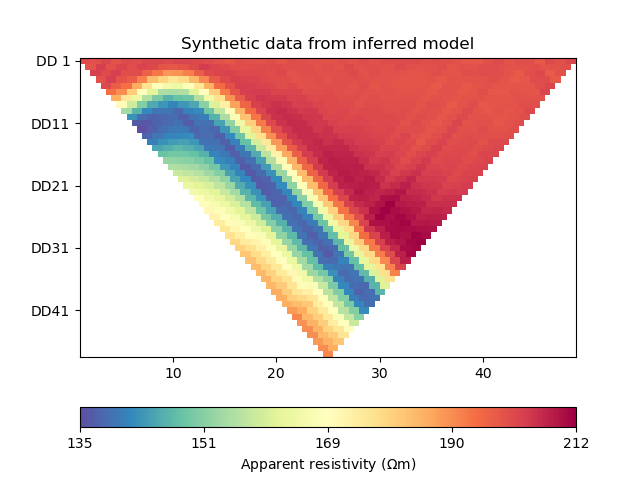
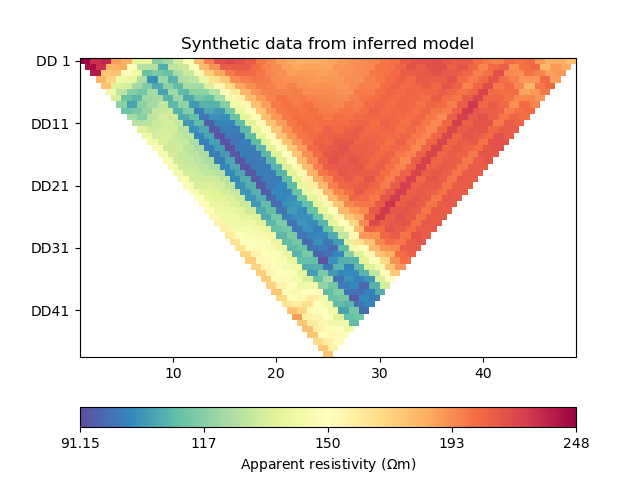
feat: update model log; add data covariance matrix for misfit

diff --git a/notebooks/pygimli_ert/pygimli_ert_gauss_newton_armijo_linesearch.py b/notebooks/pygimli_ert/pygimli_ert_gauss_newton_armijo_linesearch.py
@@ -36,7 +36,7 @@ ax[0].set_title("True model")
 ax[0].figure.savefig("figs/gauss_newton_armijo_linesearch_model_true")
 
 # generate data
-data, log_data = ert_simulate(mesh, scheme, rhomap)
+data, log_data, data_cov_inv = ert_simulate(mesh, scheme, rhomap)
 ax = ert.show(data)
 ax[0].set_title("Provided data")
 ax[0].figure.savefig("figs/gauss_newton_armijo_linesearch_data")
@@ -60,7 +60,7 @@ Wm = reg_matrix(forward_oprt)
 start_model = starting_model(ert_manager)
 ax = pygimli.show(ert_manager.paraDomain, data=start_model, label="$\Omega m$", showMesh=True)
 ax[0].set_title("Starting model")
-ax[0].figure.savefig("figs/gauss_newton_model_start")
+ax[0].figure.savefig("figs/gauss_newton_armijo_linesarch_model_start")
 
 
 ############# Inverted by our Gauss-Newton algorithm ##################################
@@ -98,7 +98,6 @@ class GaussNewtonArmjioLineaSearch(BaseSolver):
             term2 = - self._gradient(current_model)
             model_update_log = np.linalg.solve(term1, term2) #* self._step
         
-            # current_msft=self._misfit(current_model)
             current_obj = self._obj(current_model)
             print("line search")
 
@@ -106,7 +105,7 @@ class GaussNewtonArmjioLineaSearch(BaseSolver):
 
             while (tau > 1.0e-5):
                 trial_model_log = np.array(current_model_log) + np.array(model_update_log)*tau
-                trial_model=np.exp(trial_model_log)
+                trial_model = np.exp(trial_model_log)
 
                 if (np.min(trial_model)>1.0):
                     break
@@ -115,10 +114,10 @@ class GaussNewtonArmjioLineaSearch(BaseSolver):
             # Armjio Line search
             while (tau > 1.0e-5):          
                 trial_model_log = np.array(current_model_log) + np.array(model_update_log)*tau
-                trial_model=np.exp(trial_model_log)
-                trial_msft = self._obj(trial_model)
-                print("tau {} cmsft {} tmsft {} |dm| {}".format(tau,current_obj,trial_msft,np.linalg.norm(np.exp(model_update_log),2)))
-                if trial_msft<current_obj:
+                trial_model = np.exp(trial_model_log)
+                trial_obj = self._obj(trial_model)
+                print(f"tau {tau} current_obj {current_obj} trial_obj {trial_obj} |dm| {np.linalg.norm(np.exp(model_update_log*tau),2)}")
+                if trial_obj<current_obj:
                     current_model = trial_model
                     break
                 tau=tau*0.5
@@ -141,10 +140,10 @@ ert_problem.name = "Electrical Resistivity Tomography defined through PyGIMLi"
 ert_problem.set_forward(get_response, args=[forward_oprt])
 ert_problem.set_jacobian(get_jacobian, args=[forward_oprt])
 ert_problem.set_residual(get_residual, args=[log_data, forward_oprt])
-ert_problem.set_data_misfit(get_data_misfit, args=[log_data, forward_oprt])
+ert_problem.set_data_misfit(get_data_misfit, args=[log_data, forward_oprt, data_cov_inv])
 ert_problem.set_regularisation(get_regularisation, args=[Wm, lamda])
-ert_problem.set_gradient(get_gradient, args=[log_data, forward_oprt, Wm, lamda])
-ert_problem.set_hessian(get_hessian, args=[log_data, forward_oprt, Wm, lamda])
+ert_problem.set_gradient(get_gradient, args=[log_data, forward_oprt, Wm, lamda, data_cov_inv])
+ert_problem.set_hessian(get_hessian, args=[log_data, forward_oprt, Wm, lamda, data_cov_inv])
 ert_problem.set_initial_model(start_model)
 
 # CoFI - define InversionOptions

diff --git a/notebooks/pygimli_ert/pygimli_ert_lib.py b/notebooks/pygimli_ert/pygimli_ert_lib.py
@@ -32,12 +32,13 @@ def model_true(scheme, start=[-55, 0], end=[105, -80], anomaly_pos=[10,-7], anom
     return mesh, rhomap
 
 # generate synthetic data
-def ert_simulate(mesh, scheme, rhomap):
-    data = ert.simulate(mesh, scheme=scheme, res=rhomap, noiseLevel=1,
-                        noiceAbs=1e-6, seed=42)
+def ert_simulate(mesh, scheme, rhomap, noise_level=1, noise_abs=1e-6):
+    data = ert.simulate(mesh, scheme=scheme, res=rhomap, noiseLevel=noise_level,
+                        noise_abs=noise_abs, seed=42)
     data.remove(data["rhoa"] < 0)
     log_data = np.log(data["rhoa"].array())
-    return data, log_data
+    data_cov_inv = np.eye(log_data.shape[0]) * (data["err"] ** 2)
+    return data, log_data, data_cov_inv
 
 # PyGIMLi ert.ERTManager
 def ert_manager(data, verbose=False):
@@ -125,26 +126,29 @@ def get_jac_residual(model, log_data, forward_operator):
     jac = J / np.exp(response[:, np.newaxis]) * np.exp(np.log(model))[np.newaxis, :]
     return jac, residual
 
-def get_data_misfit(model, log_data, forward_operator):
+def get_data_misfit(model, log_data, forward_operator, data_cov_inv=None):
     residual = get_residual(model, log_data, forward_operator)
-    return np.abs(residual.T @ residual)
+    data_cov_inv = np.eye(log_data.shape[0]) if data_cov_inv is None else data_cov_inv
+    return np.abs(residual.T @ data_cov_inv @ residual)
 
 def get_regularisation(model, Wm, lamda):
     return lamda * (Wm @ model).T @ (Wm @ model)
 
-def get_objective(model, log_data, forward_operator, Wm, lamda):
-    data_misfit = get_data_misfit(model, log_data, forward_operator)
+def get_objective(model, log_data, forward_operator, Wm, lamda, data_cov_inv=None):
+    data_misfit = get_data_misfit(model, log_data, forward_operator, data_cov_inv)
     regularisation = get_regularisation(model, Wm, lamda)
     obj = data_misfit + regularisation
     return obj
 
-def get_gradient(model, log_data, forward_operator, Wm, lamda):
+def get_gradient(model, log_data, forward_operator, Wm, lamda, data_cov_inv=None):
     jac, residual = get_jac_residual(model, log_data, forward_operator)
-    data_misfit_grad =  - residual @ jac
+    data_cov_inv = np.eye(log_data.shape[0]) if data_cov_inv is None else data_cov_inv
+    data_misfit_grad =  - residual.T @ data_cov_inv @ jac
     regularisation_grad = lamda * Wm.T @ Wm @ model
     return data_misfit_grad + regularisation_grad
 
-def get_hessian(model, log_data, forward_operator, Wm, lamda):
+def get_hessian(model, log_data, forward_operator, Wm, lamda, data_cov_inv=None):
     jac = get_jacobian(model, forward_operator)
-    hess = jac.T @ jac + lamda * Wm.T @ Wm
+    data_cov_inv = np.eye(log_data.shape[0]) if data_cov_inv is None else data_cov_inv
+    hess = jac.T @ data_cov_inv @ jac + lamda * Wm.T @ Wm
     return hess

diff --git a/notebooks/pygimli_ert/pygimli_ert_gauss_newton.py b/notebooks/pygimli_ert/pygimli_ert_gauss_newton.py
@@ -35,7 +35,7 @@ ax[0].set_title("True model")
 ax[0].figure.savefig("figs/gauss_newton_model_true")
 
 # generate data
-data, log_data = ert_simulate(mesh, scheme, rhomap)
+data, log_data, data_cov_inv = ert_simulate(mesh, scheme, rhomap)
 ax = ert.show(data)
 ax[0].set_title("Provided data")
 ax[0].figure.savefig("figs/gauss_newton_data")
@@ -95,15 +95,16 @@ class GaussNewton(BaseSolver):
                 if self._reg: print("regularisation:", self._reg(current_model))
             term1 = self._hessian(current_model)
             term2 = - self._gradient(current_model)
-            model_update = np.linalg.solve(term1, term2) * self._step
-            current_model = np.array(current_model + model_update)
+            model_update_log = np.linalg.solve(term1, term2) * self._step
+            current_model_log = np.log(current_model)
+            current_model = np.exp(current_model_log + model_update_log)
         return {"model": current_model, "success": True}
 
 # hyperparameters
-lamda = 0.0005
-niter = 50
+lamda = 0.01
+niter = 1
 inv_verbose = True
-step = 2
+step = 1
 
 # CoFI - define BaseProblem
 ert_problem = BaseProblem()
@@ -111,10 +112,10 @@ ert_problem.name = "Electrical Resistivity Tomography defined through PyGIMLi"
 ert_problem.set_forward(get_response, args=[forward_oprt])
 ert_problem.set_jacobian(get_jacobian, args=[forward_oprt])
 ert_problem.set_residual(get_residual, args=[log_data, forward_oprt])
-ert_problem.set_data_misfit(get_data_misfit, args=[log_data, forward_oprt])
+ert_problem.set_data_misfit(get_data_misfit, args=[log_data, forward_oprt, data_cov_inv])
 ert_problem.set_regularisation(get_regularisation, args=[Wm, lamda])
-ert_problem.set_gradient(get_gradient, args=[log_data, forward_oprt, Wm, lamda])
-ert_problem.set_hessian(get_hessian, args=[log_data, forward_oprt, Wm, lamda])
+ert_problem.set_gradient(get_gradient, args=[log_data, forward_oprt, Wm, lamda, data_cov_inv])
+ert_problem.set_hessian(get_hessian, args=[log_data, forward_oprt, Wm, lamda, data_cov_inv])
 ert_problem.set_initial_model(start_model)
 
 # CoFI - define InversionOptions

diff --git a/notebooks/pygimli_ert/pygimli_ert_inbuilt_invert.py b/notebooks/pygimli_ert/pygimli_ert_inbuilt_invert.py
@@ -22,7 +22,7 @@ ax = pygimli.show(mesh, data=rhomap, label="$\Omega m$", showMesh=True)
 ax[0].figure.savefig("figs/inbuilt_solver_model_true")
 
 # generate data
-data, log_data = ert_simulate(mesh, scheme, rhomap)
+data, log_data, data_cov_inv = ert_simulate(mesh, scheme, rhomap)
 ax = ert.show(data)
 ax[0].figure.savefig("figs/inbuilt_solver_data")
 
@@ -37,5 +37,5 @@ fig = mgr.showResultAndFit()
 fig.savefig("figs/inbuilt_solver_result")
 
 Wm = reg_matrix(mgr.fop)
-print("data misfit:", get_data_misfit(inv, log_data, mgr.fop))
+print("data misfit:", get_data_misfit(inv, log_data, mgr.fop, data["err"]))
 print("regularisation:", get_regularisation(inv, Wm, 20))

diff --git a/notebooks/pygimli_ert/pygimli_ert_rect_inbuilt_invert.py b/notebooks/pygimli_ert/pygimli_ert_rect_inbuilt_invert.py
@@ -23,7 +23,7 @@ ax = pygimli.show(mesh, data=rhomap, label="$\Omega m$", showMesh=True)
 ax[0].figure.savefig("figs/inbuilt_solver_model_true")
 
 # generate data
-data, log_data = ert_simulate(mesh, scheme, rhomap)
+data, log_data, data_cov_inv = ert_simulate(mesh, scheme, rhomap)
 ax = ert.show(data)
 ax[0].figure.savefig("figs/inbuilt_solver_data")
 

diff --git a/notebooks/pygimli_ert/pygimli_ert_rect_gauss_newton.py b/notebooks/pygimli_ert/pygimli_ert_rect_gauss_newton.py
@@ -35,7 +35,7 @@ ax[0].set_title("True model")
 ax[0].figure.savefig("figs/gauss_newton_rect_model_true")
 
 # generate data
-data, log_data = ert_simulate(mesh, scheme, rhomap)
+data, log_data, data_cov_inv = ert_simulate(mesh, scheme, rhomap)
 ax = ert.show(data)
 ax[0].set_title("Provided data")
 ax[0].figure.savefig("figs/gauss_newton_data")

diff --git a/notebooks/pygimli_ert/pygimli_ert_scipy_min.py b/notebooks/pygimli_ert/pygimli_ert_scipy_min.py
@@ -35,7 +35,7 @@ ax[0].set_title("True model")
 ax[0].figure.savefig("figs/scipy_opt_model_true")
 
 # generate data
-data, log_data = ert_simulate(mesh, scheme, rhomap)
+data, log_data, data_cov_inv = ert_simulate(mesh, scheme, rhomap)
 ax = ert.show(data)
 ax[0].set_title("Provided data")
 ax[0].figure.savefig("figs/scipy_opt_data")

diff --git a/notebooks/pygimli_ert/pygimli_ert_toy_emcee.py b/notebooks/pygimli_ert/pygimli_ert_toy_emcee.py
@@ -35,7 +35,7 @@ ax[0].set_title("True model")
 ax[0].figure.savefig("figs/emcee_toy_model_true")
 
 # generate data
-data, log_data = ert_simulate(mesh, scheme, rhomap)
+data, log_data, data_cov_inv = ert_simulate(mesh, scheme, rhomap)
 ax = ert.show(data)
 ax[0].set_title("Provided data")
 ax[0].figure.savefig("figs/emcee_data")

diff --git a/utils/sphinx_gallery/scripts/pygimli_ert.py b/utils/sphinx_gallery/scripts/pygimli_ert.py
@@ -125,7 +125,7 @@ ax[0].set_title("True model")
 # 
 
 # PyGIMLi - generate data
-data, log_data = ert_simulate(mesh, scheme, rhomap)
+data, log_data, data_cov_inv = ert_simulate(mesh, scheme, rhomap)
 
 ax = ert.show(data)
 ax[0].set_title("Provided data")
